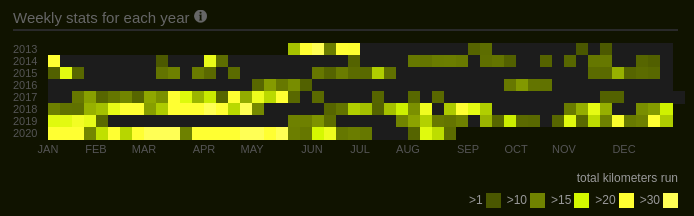
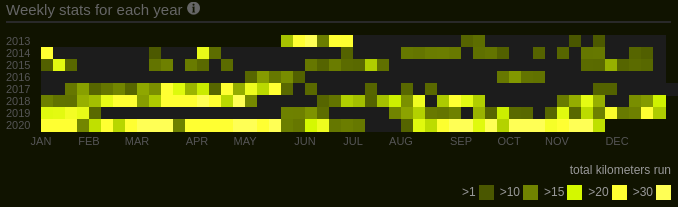
Update PRs, merge code/shell, update kms graphic

diff --git a/_docs/fitness.md b/_docs/fitness.md
@@ -18,6 +18,7 @@ Running stats generated by [Smashrun](https://smashrun.com/richard.gibert/)
 | 7k | 46:04 |
 | 10k | 1:00:00 |
 | 15k | 1:32:56 |
+| 21.1k | 2:25:50 |
 
 ### Races
 
@@ -27,4 +28,4 @@ Running stats generated by [Smashrun](https://smashrun.com/richard.gibert/)
 | [GoodLife Toronto Marathon 10k](http://www.torontomarathon.com/races/10k-run/) | 2018-05-06 | 10 km | ![Failed](/assets/img/red-cross.png) 00:55:00.0 | [01:04:13.0](https://www.sportstats.ca/display-results.xhtml?raceid=93240&bib=10225) |
 | [RBC Race for the Kids 7k](http://www.rbcraceforthekids.ca/) | 2018-09-15 | 7 km | ![Failed](/assets/img/red-cross.png) 00:45:00.0 | [00:45:57.5](https://www.sportstats.ca/display-results.xhtml?raceid=94305&bib=731) |
 | [RBC Race for the Kids 5k](http://www.rbcraceforthekids.ca/) | 2019-09-14 | 5 km | ![Success](/assets/img/green-check.png) 00:35:00.0 | [00:31:54.9](https://www.sportstats.ca/display-results.xhtml?raceid=101622&bib=191) |
-| [Scotiabank Toronto Waterfront Half Marathon?](http://www.torontowaterfrontmarathon.com/event-info/half-marathon/) | 2021-10-17 | 21.1 km | ![TBD](/assets/img/blue-dash.png) 02:10:00.0 | |
+| [Scotiabank Toronto Waterfront Half Marathon?](http://www.torontowaterfrontmarathon.com/event-info/half-marathon/) | ![TBD](/assets/img/blue-dash.png)2022-10-17 | 21.1 km | 02:10:00.0 | |

diff --git a/_docs/code.md b/_docs/code.md
@@ -98,3 +98,52 @@ From [https://news.ycombinator.com/item?id=24111105](https://news.ycombinator.co
 ~~~ promql
 count without(cpu, mode) (node_cpu_seconds_total{mode="idle"})
 ~~~
+
+# Shell
+
+## Bash
+
+### Force Command Prompt on New Line
+
+From [https://www.vidarholen.net/contents/blog/?p=878](https://www.vidarholen.net/contents/blog/?p=878).
+
+Some commands don't properly end their output with \n so your command prompt will be on the middle of the last line of their output.  This can be fixed using the following setting.
+
+~~~ bash
+PROMPT_COMMAND='printf "%%%$((COLUMNS-1))s\\r"'
+~~~
+
+### Loop Over Unique Pairings of Items
+~~~ bash
+set -- item0 item1 item2
+for outer; do
+    shift
+    for inner; do
+        echo "${outer}-${inner}"
+    done
+done
+~~~
+
+## Zsh
+
+### Suffix Aliases
+
+Suffix aliases will match file suffixes.    
+
+The following opens vscode when you enter any .md filename:
+~~~ bash
+alias -s md=code
+~~~
+
+The following will run git clone for any .git repository pasted into the command line:
+~~~ bash
+alias -s git="git clone"
+~~~
+
+### Global Aliases
+
+Matches all usage in a line, example:
+~~~ bash
+alias -g G="| grep "
+ps ux G foo
+~~~
